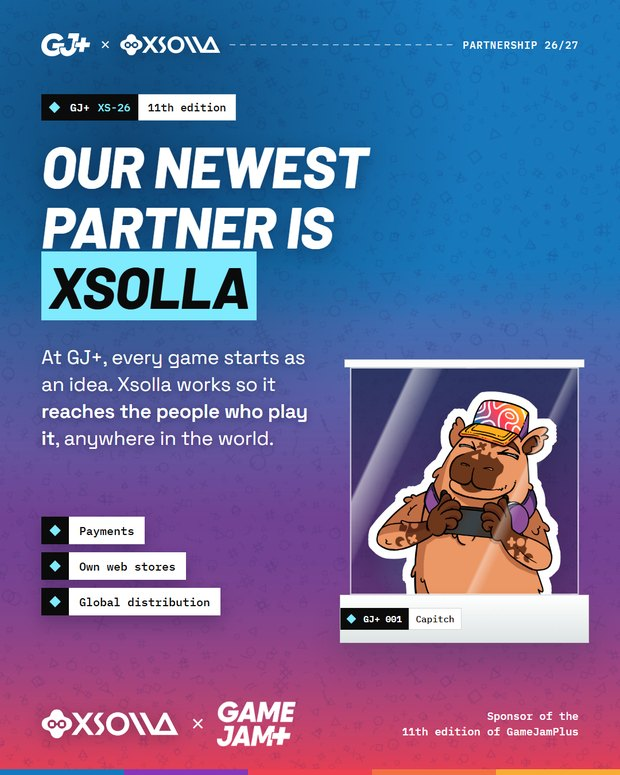
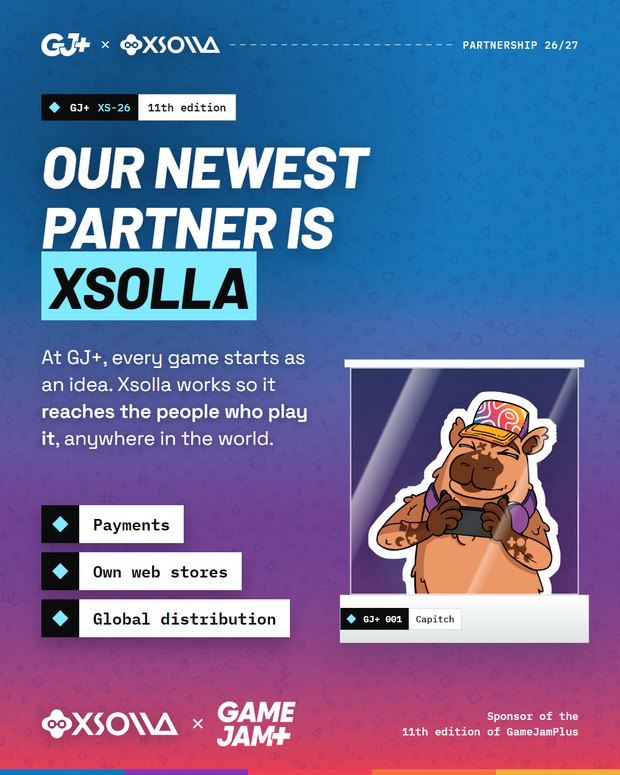
E34 e E35: legenda diz patrocinadora; E34 com etiquetas de servico maiores

Changed region(s): [[0.0613, 0.6503, 0.4903, 0.8361]]

diff --git a/legendas.js b/legendas.js
@@ -2059,7 +2059,7 @@ window.LEGENDAS = {
 "gj-e34-pt": {
   "titulo": "E34 · Nossa nova parceira, a Xsolla",
   "p": [
-    "A Xsolla é parceira da 11ª edição da GameJamPlus. A empresa trabalha há mais de 20 anos só com a indústria de games e cuida do caminho entre o jogo e quem joga, com pagamentos, lojas próprias e distribuição em mais de 200 países e regiões.",
+    "A Xsolla é patrocinadora da 11ª edição da GameJamPlus. A empresa trabalha há mais de 20 anos só com a indústria de games e cuida do caminho entre o jogo e quem joga, com pagamentos, lojas próprias e distribuição em mais de 200 países e regiões.",
     "Na prática, é a estrutura que permite a um estúdio vender direto ao jogador, receber no método de pagamento de cada país, em mais de 130 moedas, e chegar a criadores de conteúdo que divulgam o jogo. Muito projeto que nasce numa sede da GJ+ segue até a Aceleração, a etapa em que o jogo vira negócio, e é nesse momento que esse tipo de conhecimento passa a fazer diferença.",
     "Conta nos comentários em qual país você gostaria de ver o seu jogo sendo jogado."
   ],
@@ -2069,7 +2069,7 @@ window.LEGENDAS = {
 "gj-e34": {
   "titulo": "E34 · Our newest partner, Xsolla",
   "p": [
-    "Xsolla is a partner of the 11th edition of GameJamPlus. For more than 20 years the company has worked only with the games industry, handling the path between a game and the people who play it, with payments, web stores and distribution in more than 200 countries and regions.",
+    "Xsolla is a sponsor of the 11th edition of GameJamPlus. For more than 20 years the company has worked only with the games industry, handling the path between a game and the people who play it, with payments, web stores and distribution in more than 200 countries and regions.",
     "In practice, it is the structure that lets a studio sell straight to players, get paid through each country's payment methods, in more than 130 currencies, and reach content creators who spread the game. Many projects born at a GJ+ venue go on to Acceleration, the stage where the game becomes a business, and that is when this kind of knowledge starts to make a difference.",
     "Tell us in the comments which country you would love to see your game played in."
   ],
@@ -2079,7 +2079,7 @@ window.LEGENDAS = {
 "gj-e34-es": {
   "titulo": "E34 · Nuestra nueva aliada, Xsolla",
   "p": [
-    "Xsolla es aliada de la 11ª edición de GameJamPlus. La empresa trabaja hace más de 20 años solo con la industria de los videojuegos y se encarga del camino entre el juego y quien lo juega, con pagos, tiendas propias y distribución en más de 200 países y regiones.",
+    "Xsolla es patrocinadora de la 11ª edición de GameJamPlus. La empresa trabaja hace más de 20 años solo con la industria de los videojuegos y se encarga del camino entre el juego y quien lo juega, con pagos, tiendas propias y distribución en más de 200 países y regiones.",
     "En la práctica, es la estructura que permite a un estudio vender directo al jugador, cobrar con los métodos de pago de cada país, en más de 130 monedas, y llegar a creadores de contenido que difunden el juego. Muchos proyectos que nacen en una sede de GJ+ siguen hasta la Aceleración, la etapa en la que el juego se vuelve negocio, y es en ese momento que este tipo de conocimiento empieza a marcar la diferencia.",
     "Cuéntanos en los comentarios en qué país te gustaría ver tu juego."
   ],
@@ -2089,7 +2089,7 @@ window.LEGENDAS = {
 "gj-e35-pt": {
   "titulo": "E35 · Nogap Experts, nova parceira da GJ+",
   "p": [
-    "A Nogap Experts é parceira da 11ª edição da GameJamPlus. É um escritório de contabilidade especializado no mercado de games, com sede em São Paulo e filiais em Santos e Orlando, que atende estúdios, publishers e profissionais criativos.",
+    "A Nogap Experts é patrocinadora da 11ª edição da GameJamPlus. É um escritório de contabilidade especializado no mercado de games, com sede em São Paulo e filiais em Santos e Orlando, que atende estúdios, publishers e profissionais criativos.",
     "O trabalho dela é cuidar da parte que nenhuma jam treina, como a tributação de royalties, DLCs e microtransações, a conciliação das vendas na Steam, na Epic e na PS Store, a estrutura da empresa e a prestação de contas de editais e leis de incentivo. É o tipo de assunto que aparece quando o projeto começa a virar estúdio, e que pouca gente aprende antes de precisar.",
     "Comenta qual dessas partes mais trava o seu time hoje."
   ],
@@ -2099,7 +2099,7 @@ window.LEGENDAS = {
 "gj-e35": {
   "titulo": "E35 · Nogap Experts, new GJ+ partner",
   "p": [
-    "Nogap Experts is a partner of the 11th edition of GameJamPlus. It is an accounting firm specialized in the games market, based in São Paulo with offices in Santos and Orlando, serving studios, publishers and creative professionals.",
+    "Nogap Experts is a sponsor of the 11th edition of GameJamPlus. It is an accounting firm specialized in the games market, based in São Paulo with offices in Santos and Orlando, serving studios, publishers and creative professionals.",
     "Its work covers the part no jam trains you for, like taxes on royalties, DLCs and microtransactions, reconciling sales on Steam, Epic and PS Store, company structure and reporting for grants and incentive laws. It is the kind of subject that shows up when a project starts turning into a studio, and that few people learn before they need it.",
     "Tell us in the comments which of these parts slows your team down the most today."
   ],
@@ -2109,7 +2109,7 @@ window.LEGENDAS = {
 "gj-e35-es": {
   "titulo": "E35 · Nogap Experts, nueva aliada de GJ+",
   "p": [
-    "Nogap Experts es aliada de la 11ª edición de GameJamPlus. Es un estudio contable especializado en el mercado de los videojuegos, con sede en São Paulo y oficinas en Santos y Orlando, que atiende a estudios, publishers y profesionales creativos.",
+    "Nogap Experts es patrocinadora de la 11ª edición de GameJamPlus. Es un estudio contable especializado en el mercado de los videojuegos, con sede en São Paulo y oficinas en Santos y Orlando, que atiende a estudios, publishers y profesionales creativos.",
     "Su trabajo cubre la parte que ninguna jam entrena, como los impuestos sobre royalties, DLCs y microtransacciones, la conciliación de ventas en Steam, Epic y PS Store, la estructura de la empresa y la rendición de cuentas de fondos públicos y leyes de incentivo. Es el tipo de tema que aparece cuando el proyecto empieza a convertirse en estudio, y que poca gente aprende antes de necesitarlo.",
     "Cuéntanos en los comentarios cuál de estas partes frena más a tu equipo hoy."
   ],

diff --git a/p/e34-es/index.html b/p/e34-es/index.html
@@ -4,13 +4,13 @@
 <meta charset="utf-8">
 <meta name="viewport" content="width=device-width,initial-scale=1">
 <title>E34 - Nuestra nueva aliada, Xsolla · GameJamPlus</title>
-<meta name="description" content="Xsolla es aliada de la 11ª edición de GameJamPlus. La empresa trabaja hace más de 20 años solo con la industria de los videojuegos y se encarga del cami...">
+<meta name="description" content="Xsolla es patrocinadora de la 11ª edición de GameJamPlus. La empresa trabaja hace más de 20 años solo con la industria de los videojuegos y se encarga d...">
 <meta name="robots" content="noindex">
 <meta property="og:type" content="article">
 <meta property="og:site_name" content="GameJamPlus · carrosséis">
 <meta property="og:title" content="E34 - Nuestra nueva aliada, Xsolla">
-<meta property="og:description" content="Xsolla es aliada de la 11ª edición de GameJamPlus. La empresa trabaja hace más de 20 años solo con la industria de los videojuegos y se encarga del cami...">
-<meta property="og:image" content="https://gamejamplus-carrosseis.vercel.app/img/01-conteudos-gj-es-e34-nuestra-nueva-aliada-xsolla/slide_01.jpg?v=1">
+<meta property="og:description" content="Xsolla es patrocinadora de la 11ª edición de GameJamPlus. La empresa trabaja hace más de 20 años solo con la industria de los videojuegos y se encarga d...">
+<meta property="og:image" content="https://gamejamplus-carrosseis.vercel.app/img/01-conteudos-gj-es-e34-nuestra-nueva-aliada-xsolla/slide_01.jpg?v=2">
 <meta property="og:url" content="https://gamejamplus-carrosseis.vercel.app/p/e34-es/">
 <meta name="twitter:card" content="summary_large_image">
 <link rel="preconnect" href="https://fonts.googleapis.com">
@@ -68,7 +68,7 @@ h1{font-size:23px;font-weight:800;letter-spacing:-.5px;margin:8px 0 4px;line-hei
   <p class="sub">1 slides</p>
 
   <div class="palco">
-    <img id="sl" src="../../img/01-conteudos-gj-es-e34-nuestra-nueva-aliada-xsolla/slide_01.jpg?v=1" alt="E34 - Nuestra nueva aliada, Xsolla 1">
+    <img id="sl" src="../../img/01-conteudos-gj-es-e34-nuestra-nueva-aliada-xsolla/slide_01.jpg?v=2" alt="E34 - Nuestra nueva aliada, Xsolla 1">
     
   </div>
   
@@ -77,7 +77,7 @@ h1{font-size:23px;font-weight:800;letter-spacing:-.5px;margin:8px 0 4px;line-hei
 
   <section class="leg">
     <h2>Legenda do Instagram · ES</h2>
-    <p>Xsolla es aliada de la 11ª edición de GameJamPlus. La empresa trabaja hace más de 20 años solo con la industria de los videojuegos y se encarga del camino entre el juego y quien lo juega, con pagos, tiendas propias y distribución en más de 200 países y regiones.</p>
+    <p>Xsolla es patrocinadora de la 11ª edición de GameJamPlus. La empresa trabaja hace más de 20 años solo con la industria de los videojuegos y se encarga del camino entre el juego y quien lo juega, con pagos, tiendas propias y distribución en más de 200 países y regiones.</p>
     <p>En la práctica, es la estructura que permite a un estudio vender directo al jugador, cobrar con los métodos de pago de cada país, en más de 130 monedas, y llegar a creadores de contenido que difunden el juego. Muchos proyectos que nacen en una sede de GJ+ siguen hasta la Aceleración, la etapa en la que el juego se vuelve negocio, y es en ese momento que este tipo de conocimiento empieza a marcar la diferencia.</p>
     <p>Cuéntanos en los comentarios en qué país te gustaría ver tu juego.</p>
     <div class="tags">#GameJamPlus #Xsolla #BeOurPlusOne #GameDev #IndieDev #IndieGames</div>
@@ -86,8 +86,8 @@ h1{font-size:23px;font-weight:800;letter-spacing:-.5px;margin:8px 0 4px;line-hei
   <p class="rod">Uso interno, para revisão.</p>
 </div>
 <script>
-const S=["../../img/01-conteudos-gj-es-e34-nuestra-nueva-aliada-xsolla/slide_01.jpg?v=1"];
-const LEGTXT="Xsolla es aliada de la 11ª edición de GameJamPlus. La empresa trabaja hace más de 20 años solo con la industria de los videojuegos y se encarga del camino entre el juego y quien lo juega, con pagos, tiendas propias y distribución en más de 200 países y regiones.\n\nEn la práctica, es la estructura que permite a un estudio vender directo al jugador, cobrar con los métodos de pago de cada país, en más de 130 monedas, y llegar a creadores de contenido que difunden el juego. Muchos proyectos que nacen en una sede de GJ+ siguen hasta la Aceleración, la etapa en la que el juego se vuelve negocio, y es en ese momento que este tipo de conocimiento empieza a marcar la diferencia.\n\nCuéntanos en los comentarios en qué país te gustaría ver tu juego.\n\n#GameJamPlus #Xsolla #BeOurPlusOne #GameDev #IndieDev #IndieGames";
+const S=["../../img/01-conteudos-gj-es-e34-nuestra-nueva-aliada-xsolla/slide_01.jpg?v=2"];
+const LEGTXT="Xsolla es patrocinadora de la 11ª edición de GameJamPlus. La empresa trabaja hace más de 20 años solo con la industria de los videojuegos y se encarga del camino entre el juego y quien lo juega, con pagos, tiendas propias y distribución en más de 200 países y regiones.\n\nEn la práctica, es la estructura que permite a un estudio vender directo al jugador, cobrar con los métodos de pago de cada país, en más de 130 monedas, y llegar a creadores de contenido que difunden el juego. Muchos proyectos que nacen en una sede de GJ+ siguen hasta la Aceleración, la etapa en la que el juego se vuelve negocio, y es en ese momento que este tipo de conocimiento empieza a marcar la diferencia.\n\nCuéntanos en los comentarios en qué país te gustaría ver tu juego.\n\n#GameJamPlus #Xsolla #BeOurPlusOne #GameDev #IndieDev #IndieGames";
 let i=0;
 const img=document.getElementById('sl'),nn=document.getElementById('n'),dots=document.getElementById('dots');
 if(dots){S.forEach((_,k)=>{const d=document.createElement('i');d.onclick=()=>ir(k);dots.append(d)});}

diff --git a/p/e34-pt/index.html b/p/e34-pt/index.html
@@ -4,13 +4,13 @@
 <meta charset="utf-8">
 <meta name="viewport" content="width=device-width,initial-scale=1">
 <title>E34 - Nossa nova parceira, a Xsolla · GameJamPlus</title>
-<meta name="description" content="A Xsolla é parceira da 11ª edição da GameJamPlus. A empresa trabalha há mais de 20 anos só com a indústria de games e cuida do caminho entre o jogo e qu...">
+<meta name="description" content="A Xsolla é patrocinadora da 11ª edição da GameJamPlus. A empresa trabalha há mais de 20 anos só com a indústria de games e cuida do caminho entre o jogo...">
 <meta name="robots" content="noindex">
 <meta property="og:type" content="article">
 <meta property="og:site_name" content="GameJamPlus · carrosséis">
 <meta property="og:title" content="E34 - Nossa nova parceira, a Xsolla">
-<meta property="og:description" content="A Xsolla é parceira da 11ª edição da GameJamPlus. A empresa trabalha há mais de 20 anos só com a indústria de games e cuida do caminho entre o jogo e qu...">
-<meta property="og:image" content="https://gamejamplus-carrosseis.vercel.app/img/01-conteudos-gj-pt-e34-nossa-nova-parceira-a-xsolla/slide_01.jpg?v=1">
+<meta property="og:description" content="A Xsolla é patrocinadora da 11ª edição da GameJamPlus. A empresa trabalha há mais de 20 anos só com a indústria de games e cuida do caminho entre o jogo...">
+<meta property="og:image" content="https://gamejamplus-carrosseis.vercel.app/img/01-conteudos-gj-pt-e34-nossa-nova-parceira-a-xsolla/slide_01.jpg?v=2">
 <meta property="og:url" content="https://gamejamplus-carrosseis.vercel.app/p/e34-pt/">
 <meta name="twitter:card" content="summary_large_image">
 <link rel="preconnect" href="https://fonts.googleapis.com">
@@ -68,7 +68,7 @@ h1{font-size:23px;font-weight:800;letter-spacing:-.5px;margin:8px 0 4px;line-hei
   <p class="sub">1 slides</p>
 
   <div class="palco">
-    <img id="sl" src="../../img/01-conteudos-gj-pt-e34-nossa-nova-parceira-a-xsolla/slide_01.jpg?v=1" alt="E34 - Nossa nova parceira, a Xsolla 1">
+    <img id="sl" src="../../img/01-conteudos-gj-pt-e34-nossa-nova-parceira-a-xsolla/slide_01.jpg?v=2" alt="E34 - Nossa nova parceira, a Xsolla 1">
     
   </div>
   
@@ -77,7 +77,7 @@ h1{font-size:23px;font-weight:800;letter-spacing:-.5px;margin:8px 0 4px;line-hei
 
   <section class="leg">
     <h2>Legenda do Instagram · PT</h2>
-    <p>A Xsolla é parceira da 11ª edição da GameJamPlus. A empresa trabalha há mais de 20 anos só com a indústria de games e cuida do caminho entre o jogo e quem joga, com pagamentos, lojas próprias e distribuição em mais de 200 países e regiões.</p>
+    <p>A Xsolla é patrocinadora da 11ª edição da GameJamPlus. A empresa trabalha há mais de 20 anos só com a indústria de games e cuida do caminho entre o jogo e quem joga, com pagamentos, lojas próprias e distribuição em mais de 200 países e regiões.</p>
     <p>Na prática, é a estrutura que permite a um estúdio vender direto ao jogador, receber no método de pagamento de cada país, em mais de 130 moedas, e chegar a criadores de conteúdo que divulgam o jogo. Muito projeto que nasce numa sede da GJ+ segue até a Aceleração, a etapa em que o jogo vira negócio, e é nesse momento que esse tipo de conhecimento passa a fazer diferença.</p>
     <p>Conta nos comentários em qual país você gostaria de ver o seu jogo sendo jogado.</p>
     <div class="tags">#GameJamPlus #Xsolla #BeOurPlusOne #GameDev #IndieDev #IndieGames</div>
@@ -86,8 +86,8 @@ h1{font-size:23px;font-weight:800;letter-spacing:-.5px;margin:8px 0 4px;line-hei
   <p class="rod">Uso interno, para revisão.</p>
 </div>
 <script>
-const S=["../../img/01-conteudos-gj-pt-e34-nossa-nova-parceira-a-xsolla/slide_01.jpg?v=1"];
-const LEGTXT="A Xsolla é parceira da 11ª edição da GameJamPlus. A empresa trabalha há mais de 20 anos só com a indústria de games e cuida do caminho entre o jogo e quem joga, com pagamentos, lojas próprias e distribuição em mais de 200 países e regiões.\n\nNa prática, é a estrutura que permite a um estúdio vender direto ao jogador, receber no método de pagamento de cada país, em mais de 130 moedas, e chegar a criadores de conteúdo que divulgam o jogo. Muito projeto que nasce numa sede da GJ+ segue até a Aceleração, a etapa em que o jogo vira negócio, e é nesse momento que esse tipo de conhecimento passa a fazer diferença.\n\nConta nos comentários em qual país você gostaria de ver o seu jogo sendo jogado.\n\n#GameJamPlus #Xsolla #BeOurPlusOne #GameDev #IndieDev #IndieGames";
+const S=["../../img/01-conteudos-gj-pt-e34-nossa-nova-parceira-a-xsolla/slide_01.jpg?v=2"];
+const LEGTXT="A Xsolla é patrocinadora da 11ª edição da GameJamPlus. A empresa trabalha há mais de 20 anos só com a indústria de games e cuida do caminho entre o jogo e quem joga, com pagamentos, lojas próprias e distribuição em mais de 200 países e regiões.\n\nNa prática, é a estrutura que permite a um estúdio vender direto ao jogador, receber no método de pagamento de cada país, em mais de 130 moedas, e chegar a criadores de conteúdo que divulgam o jogo. Muito projeto que nasce numa sede da GJ+ segue até a Aceleração, a etapa em que o jogo vira negócio, e é nesse momento que esse tipo de conhecimento passa a fazer diferença.\n\nConta nos comentários em qual país você gostaria de ver o seu jogo sendo jogado.\n\n#GameJamPlus #Xsolla #BeOurPlusOne #GameDev #IndieDev #IndieGames";
 let i=0;
 const img=document.getElementById('sl'),nn=document.getElementById('n'),dots=document.getElementById('dots');
 if(dots){S.forEach((_,k)=>{const d=document.createElement('i');d.onclick=()=>ir(k);dots.append(d)});}

diff --git a/p/e34-en/index.html b/p/e34-en/index.html
@@ -4,13 +4,13 @@
 <meta charset="utf-8">
 <meta name="viewport" content="width=device-width,initial-scale=1">
 <title>E34 - Our newest partner, Xsolla · GameJamPlus</title>
-<meta name="description" content="Xsolla is a partner of the 11th edition of GameJamPlus. For more than 20 years the company has worked only with the games industry, handling the path be...">
+<meta name="description" content="Xsolla is a sponsor of the 11th edition of GameJamPlus. For more than 20 years the company has worked only with the games industry, handling the path be...">
 <meta name="robots" content="noindex">
 <meta property="og:type" content="article">
 <meta property="og:site_name" content="GameJamPlus · carrosséis">
 <meta property="og:title" content="E34 - Our newest partner, Xsolla">
-<meta property="og:description" content="Xsolla is a partner of the 11th edition of GameJamPlus. For more than 20 years the company has worked only with the games industry, handling the path be...">
-<meta property="og:image" content="https://gamejamplus-carrosseis.vercel.app/img/01-conteudos-gj-en-e34-our-newest-partner-xsolla/slide_01.jpg?v=1">
+<meta property="og:description" content="Xsolla is a sponsor of the 11th edition of GameJamPlus. For more than 20 years the company has worked only with the games industry, handling the path be...">
+<meta property="og:image" content="https://gamejamplus-carrosseis.vercel.app/img/01-conteudos-gj-en-e34-our-newest-partner-xsolla/slide_01.jpg?v=2">
 <meta property="og:url" content="https://gamejamplus-carrosseis.vercel.app/p/e34-en/">
 <meta name="twitter:card" content="summary_large_image">
 <link rel="preconnect" href="https://fonts.googleapis.com">
@@ -68,7 +68,7 @@ h1{font-size:23px;font-weight:800;letter-spacing:-.5px;margin:8px 0 4px;line-hei
   <p class="sub">1 slides</p>
 
   <div class="palco">
-    <img id="sl" src="../../img/01-conteudos-gj-en-e34-our-newest-partner-xsolla/slide_01.jpg?v=1" alt="E34 - Our newest partner, Xsolla 1">
+    <img id="sl" src="../../img/01-conteudos-gj-en-e34-our-newest-partner-xsolla/slide_01.jpg?v=2" alt="E34 - Our newest partner, Xsolla 1">
     
   </div>
   
@@ -77,7 +77,7 @@ h1{font-size:23px;font-weight:800;letter-spacing:-.5px;margin:8px 0 4px;line-hei
 
   <section class="leg">
     <h2>Legenda do Instagram · EN</h2>
-    <p>Xsolla is a partner of the 11th edition of GameJamPlus. For more than 20 years the company has worked only with the games industry, handling the path between a game and the people who play it, with payments, web stores and distribution in more than 200 countries and regions.</p>
+    <p>Xsolla is a sponsor of the 11th edition of GameJamPlus. For more than 20 years the company has worked only with the games industry, handling the path between a game and the people who play it, with payments, web stores and distribution in more than 200 countries and regions.</p>
     <p>In practice, it is the structure that lets a studio sell straight to players, get paid through each country's payment methods, in more than 130 currencies, and reach content creators who spread the game. Many projects born at a GJ+ venue go on to Acceleration, the stage where the game becomes a business, and that is when this kind of knowledge starts to make a difference.</p>
     <p>Tell us in the comments which country you would love to see your game played in.</p>
     <div class="tags">#GameJamPlus #Xsolla #BeOurPlusOne #GameDev #IndieDev #IndieGames</div>
@@ -86,8 +86,8 @@ h1{font-size:23px;font-weight:800;letter-spacing:-.5px;margin:8px 0 4px;line-hei
   <p class="rod">Uso interno, para revisão.</p>
 </div>
 <script>
-const S=["../../img/01-conteudos-gj-en-e34-our-newest-partner-xsolla/slide_01.jpg?v=1"];
-const LEGTXT="Xsolla is a partner of the 11th edition of GameJamPlus. For more than 20 years the company has worked only with the games industry, handling the path between a game and the people who play it, with payments, web stores and distribution in more than 200 countries and regions.\n\nIn practice, it is the structure that lets a studio sell straight to players, get paid through each country's payment methods, in more than 130 currencies, and reach content creators who spread the game. Many projects born at a GJ+ venue go on to Acceleration, the stage where the game becomes a business, and that is when this kind of knowledge starts to make a difference.\n\nTell us in the comments which country you would love to see your game played in.\n\n#GameJamPlus #Xsolla #BeOurPlusOne #GameDev #IndieDev #IndieGames";
+const S=["../../img/01-conteudos-gj-en-e34-our-newest-partner-xsolla/slide_01.jpg?v=2"];
+const LEGTXT="Xsolla is a sponsor of the 11th edition of GameJamPlus. For more than 20 years the company has worked only with the games industry, handling the path between a game and the people who play it, with payments, web stores and distribution in more than 200 countries and regions.\n\nIn practice, it is the structure that lets a studio sell straight to players, get paid through each country's payment methods, in more than 130 currencies, and reach content creators who spread the game. Many projects born at a GJ+ venue go on to Acceleration, the stage where the game becomes a business, and that is when this kind of knowledge starts to make a difference.\n\nTell us in the comments which country you would love to see your game played in.\n\n#GameJamPlus #Xsolla #BeOurPlusOne #GameDev #IndieDev #IndieGames";
 let i=0;
 const img=document.getElementById('sl'),nn=document.getElementById('n'),dots=document.getElementById('dots');
 if(dots){S.forEach((_,k)=>{const d=document.createElement('i');d.onclick=()=>ir(k);dots.append(d)});}

diff --git a/p/e35-es/index.html b/p/e35-es/index.html
@@ -4,12 +4,12 @@
 <meta charset="utf-8">
 <meta name="viewport" content="width=device-width,initial-scale=1">
 <title>E35 - Nogap Experts, nueva aliada de GJ+ · GameJamPlus</title>
-<meta name="description" content="Nogap Experts es aliada de la 11ª edición de GameJamPlus. Es un estudio contable especializado en el mercado de los videojuegos, con sede en São Paulo y...">
+<meta name="description" content="Nogap Experts es patrocinadora de la 11ª edición de GameJamPlus. Es un estudio contable especializado en el mercado de los videojuegos, con sede en São...">
 <meta name="robots" content="noindex">
 <meta property="og:type" content="article">
 <meta property="og:site_name" content="GameJamPlus · carrosséis">
 <meta property="og:title" content="E35 - Nogap Experts, nueva aliada de GJ+">
-<meta property="og:description" content="Nogap Experts es aliada de la 11ª edición de GameJamPlus. Es un estudio contable especializado en el mercado de los videojuegos, con sede en São Paulo y...">
+<meta property="og:description" content="Nogap Experts es patrocinadora de la 11ª edición de GameJamPlus. Es un estudio contable especializado en el mercado de los videojuegos, con sede en São...">
 <meta property="og:image" content="https://gamejamplus-carrosseis.vercel.app/img/01-conteudos-gj-es-e35-nogap-experts-nueva-aliada-de-gj/slide_01.jpg?v=1">
 <meta property="og:url" content="https://gamejamplus-carrosseis.vercel.app/p/e35-es/">
 <meta name="twitter:card" content="summary_large_image">
@@ -77,7 +77,7 @@ h1{font-size:23px;font-weight:800;letter-spacing:-.5px;margin:8px 0 4px;line-hei
 
   <section class="leg">
     <h2>Legenda do Instagram · ES</h2>
-    <p>Nogap Experts es aliada de la 11ª edición de GameJamPlus. Es un estudio contable especializado en el mercado de los videojuegos, con sede en São Paulo y oficinas en Santos y Orlando, que atiende a estudios, publishers y profesionales creativos.</p>
+    <p>Nogap Experts es patrocinadora de la 11ª edición de GameJamPlus. Es un estudio contable especializado en el mercado de los videojuegos, con sede en São Paulo y oficinas en Santos y Orlando, que atiende a estudios, publishers y profesionales creativos.</p>
     <p>Su trabajo cubre la parte que ninguna jam entrena, como los impuestos sobre royalties, DLCs y microtransacciones, la conciliación de ventas en Steam, Epic y PS Store, la estructura de la empresa y la rendición de cuentas de fondos públicos y leyes de incentivo. Es el tipo de tema que aparece cuando el proyecto empieza a convertirse en estudio, y que poca gente aprende antes de necesitarlo.</p>
     <p>Cuéntanos en los comentarios cuál de estas partes frena más a tu equipo hoy.</p>
     <div class="tags">#GameJamPlus #NogapExperts #BeOurPlusOne #GameDev #IndieDev #IndieGames</div>
@@ -87,7 +87,7 @@ h1{font-size:23px;font-weight:800;letter-spacing:-.5px;margin:8px 0 4px;line-hei
 </div>
 <script>
 const S=["../../img/01-conteudos-gj-es-e35-nogap-experts-nueva-aliada-de-gj/slide_01.jpg?v=1"];
-const LEGTXT="Nogap Experts es aliada de la 11ª edición de GameJamPlus. Es un estudio contable especializado en el mercado de los videojuegos, con sede en São Paulo y oficinas en Santos y Orlando, que atiende a estudios, publishers y profesionales creativos.\n\nSu trabajo cubre la parte que ninguna jam entrena, como los impuestos sobre royalties, DLCs y microtransacciones, la conciliación de ventas en Steam, Epic y PS Store, la estructura de la empresa y la rendición de cuentas de fondos públicos y leyes de incentivo. Es el tipo de tema que aparece cuando el proyecto empieza a convertirse en estudio, y que poca gente aprende antes de necesitarlo.\n\nCuéntanos en los comentarios cuál de estas partes frena más a tu equipo hoy.\n\n#GameJamPlus #NogapExperts #BeOurPlusOne #GameDev #IndieDev #IndieGames";
+const LEGTXT="Nogap Experts es patrocinadora de la 11ª edición de GameJamPlus. Es un estudio contable especializado en el mercado de los videojuegos, con sede en São Paulo y oficinas en Santos y Orlando, que atiende a estudios, publishers y profesionales creativos.\n\nSu trabajo cubre la parte que ninguna jam entrena, como los impuestos sobre royalties, DLCs y microtransacciones, la conciliación de ventas en Steam, Epic y PS Store, la estructura de la empresa y la rendición de cuentas de fondos públicos y leyes de incentivo. Es el tipo de tema que aparece cuando el proyecto empieza a convertirse en estudio, y que poca gente aprende antes de necesitarlo.\n\nCuéntanos en los comentarios cuál de estas partes frena más a tu equipo hoy.\n\n#GameJamPlus #NogapExperts #BeOurPlusOne #GameDev #IndieDev #IndieGames";
 let i=0;
 const img=document.getElementById('sl'),nn=document.getElementById('n'),dots=document.getElementById('dots');
 if(dots){S.forEach((_,k)=>{const d=document.createElement('i');d.onclick=()=>ir(k);dots.append(d)});}

diff --git a/p/e35-pt/index.html b/p/e35-pt/index.html
@@ -4,12 +4,12 @@
 <meta charset="utf-8">
 <meta name="viewport" content="width=device-width,initial-scale=1">
 <title>E35 - Nogap Experts, nova parceira da GJ+ · GameJamPlus</title>
-<meta name="description" content="A Nogap Experts é parceira da 11ª edição da GameJamPlus. É um escritório de contabilidade especializado no mercado de games, com sede em São Paulo e fil...">
+<meta name="description" content="A Nogap Experts é patrocinadora da 11ª edição da GameJamPlus. É um escritório de contabilidade especializado no mercado de games, com sede em São Paulo...">
 <meta name="robots" content="noindex">
 <meta property="og:type" content="article">
 <meta property="og:site_name" content="GameJamPlus · carrosséis">
 <meta property="og:title" content="E35 - Nogap Experts, nova parceira da GJ+">
-<meta property="og:description" content="A Nogap Experts é parceira da 11ª edição da GameJamPlus. É um escritório de contabilidade especializado no mercado de games, com sede em São Paulo e fil...">
+<meta property="og:description" content="A Nogap Experts é patrocinadora da 11ª edição da GameJamPlus. É um escritório de contabilidade especializado no mercado de games, com sede em São Paulo...">
 <meta property="og:image" content="https://gamejamplus-carrosseis.vercel.app/img/01-conteudos-gj-pt-e35-nogap-experts-nova-parceira-da-gj/slide_01.jpg?v=1">
 <meta property="og:url" content="https://gamejamplus-carrosseis.vercel.app/p/e35-pt/">
 <meta name="twitter:card" content="summary_large_image">
@@ -77,7 +77,7 @@ h1{font-size:23px;font-weight:800;letter-spacing:-.5px;margin:8px 0 4px;line-hei
 
   <section class="leg">
     <h2>Legenda do Instagram · PT</h2>
-    <p>A Nogap Experts é parceira da 11ª edição da GameJamPlus. É um escritório de contabilidade especializado no mercado de games, com sede em São Paulo e filiais em Santos e Orlando, que atende estúdios, publishers e profissionais criativos.</p>
+    <p>A Nogap Experts é patrocinadora da 11ª edição da GameJamPlus. É um escritório de contabilidade especializado no mercado de games, com sede em São Paulo e filiais em Santos e Orlando, que atende estúdios, publishers e profissionais criativos.</p>
     <p>O trabalho dela é cuidar da parte que nenhuma jam treina, como a tributação de royalties, DLCs e microtransações, a conciliação das vendas na Steam, na Epic e na PS Store, a estrutura da empresa e a prestação de contas de editais e leis de incentivo. É o tipo de assunto que aparece quando o projeto começa a virar estúdio, e que pouca gente aprende antes de precisar.</p>
     <p>Comenta qual dessas partes mais trava o seu time hoje.</p>
     <div class="tags">#GameJamPlus #NogapExperts #BeOurPlusOne #GameDev #IndieDev #IndieGames</div>
@@ -87,7 +87,7 @@ h1{font-size:23px;font-weight:800;letter-spacing:-.5px;margin:8px 0 4px;line-hei
 </div>
 <script>
 const S=["../../img/01-conteudos-gj-pt-e35-nogap-experts-nova-parceira-da-gj/slide_01.jpg?v=1"];
-const LEGTXT="A Nogap Experts é parceira da 11ª edição da GameJamPlus. É um escritório de contabilidade especializado no mercado de games, com sede em São Paulo e filiais em Santos e Orlando, que atende estúdios, publishers e profissionais criativos.\n\nO trabalho dela é cuidar da parte que nenhuma jam treina, como a tributação de royalties, DLCs e microtransações, a conciliação das vendas na Steam, na Epic e na PS Store, a estrutura da empresa e a prestação de contas de editais e leis de incentivo. É o tipo de assunto que aparece quando o projeto começa a virar estúdio, e que pouca gente aprende antes de precisar.\n\nComenta qual dessas partes mais trava o seu time hoje.\n\n#GameJamPlus #NogapExperts #BeOurPlusOne #GameDev #IndieDev #IndieGames";
+const LEGTXT="A Nogap Experts é patrocinadora da 11ª edição da GameJamPlus. É um escritório de contabilidade especializado no mercado de games, com sede em São Paulo e filiais em Santos e Orlando, que atende estúdios, publishers e profissionais criativos.\n\nO trabalho dela é cuidar da parte que nenhuma jam treina, como a tributação de royalties, DLCs e microtransações, a conciliação das vendas na Steam, na Epic e na PS Store, a estrutura da empresa e a prestação de contas de editais e leis de incentivo. É o tipo de assunto que aparece quando o projeto começa a virar estúdio, e que pouca gente aprende antes de precisar.\n\nComenta qual dessas partes mais trava o seu time hoje.\n\n#GameJamPlus #NogapExperts #BeOurPlusOne #GameDev #IndieDev #IndieGames";
 let i=0;
 const img=document.getElementById('sl'),nn=document.getElementById('n'),dots=document.getElementById('dots');
 if(dots){S.forEach((_,k)=>{const d=document.createElement('i');d.onclick=()=>ir(k);dots.append(d)});}

diff --git a/p/e35-en/index.html b/p/e35-en/index.html
@@ -4,12 +4,12 @@
 <meta charset="utf-8">
 <meta name="viewport" content="width=device-width,initial-scale=1">
 <title>E35 - Nogap Experts, new GJ+ partner · GameJamPlus</title>
-<meta name="description" content="Nogap Experts is a partner of the 11th edition of GameJamPlus. It is an accounting firm specialized in the games market, based in São Paulo with offices...">
+<meta name="description" content="Nogap Experts is a sponsor of the 11th edition of GameJamPlus. It is an accounting firm specialized in the games market, based in São Paulo with offices...">
 <meta name="robots" content="noindex">
 <meta property="og:type" content="article">
 <meta property="og:site_name" content="GameJamPlus · carrosséis">
 <meta property="og:title" content="E35 - Nogap Experts, new GJ+ partner">
-<meta property="og:description" content="Nogap Experts is a partner of the 11th edition of GameJamPlus. It is an accounting firm specialized in the games market, based in São Paulo with offices...">
+<meta property="og:description" content="Nogap Experts is a sponsor of the 11th edition of GameJamPlus. It is an accounting firm specialized in the games market, based in São Paulo with offices...">
 <meta property="og:image" content="https://gamejamplus-carrosseis.vercel.app/img/01-conteudos-gj-en-e35-nogap-experts-new-gj-partner/slide_01.jpg?v=1">
 <meta property="og:url" content="https://gamejamplus-carrosseis.vercel.app/p/e35-en/">
 <meta name="twitter:card" content="summary_large_image">
@@ -77,7 +77,7 @@ h1{font-size:23px;font-weight:800;letter-spacing:-.5px;margin:8px 0 4px;line-hei
 
   <section class="leg">
     <h2>Legenda do Instagram · EN</h2>
-    <p>Nogap Experts is a partner of the 11th edition of GameJamPlus. It is an accounting firm specialized in the games market, based in São Paulo with offices in Santos and Orlando, serving studios, publishers and creative professionals.</p>
+    <p>Nogap Experts is a sponsor of the 11th edition of GameJamPlus. It is an accounting firm specialized in the games market, based in São Paulo with offices in Santos and Orlando, serving studios, publishers and creative professionals.</p>
     <p>Its work covers the part no jam trains you for, like taxes on royalties, DLCs and microtransactions, reconciling sales on Steam, Epic and PS Store, company structure and reporting for grants and incentive laws. It is the kind of subject that shows up when a project starts turning into a studio, and that few people learn before they need it.</p>
     <p>Tell us in the comments which of these parts slows your team down the most today.</p>
     <div class="tags">#GameJamPlus #NogapExperts #BeOurPlusOne #GameDev #IndieDev #IndieGames</div>
@@ -87,7 +87,7 @@ h1{font-size:23px;font-weight:800;letter-spacing:-.5px;margin:8px 0 4px;line-hei
 </div>
 <script>
 const S=["../../img/01-conteudos-gj-en-e35-nogap-experts-new-gj-partner/slide_01.jpg?v=1"];
-const LEGTXT="Nogap Experts is a partner of the 11th edition of GameJamPlus. It is an accounting firm specialized in the games market, based in São Paulo with offices in Santos and Orlando, serving studios, publishers and creative professionals.\n\nIts work covers the part no jam trains you for, like taxes on royalties, DLCs and microtransactions, reconciling sales on Steam, Epic and PS Store, company structure and reporting for grants and incentive laws. It is the kind of subject that shows up when a project starts turning into a studio, and that few people learn before they need it.\n\nTell us in the comments which of these parts slows your team down the most today.\n\n#GameJamPlus #NogapExperts #BeOurPlusOne #GameDev #IndieDev #IndieGames";
+const LEGTXT="Nogap Experts is a sponsor of the 11th edition of GameJamPlus. It is an accounting firm specialized in the games market, based in São Paulo with offices in Santos and Orlando, serving studios, publishers and creative professionals.\n\nIts work covers the part no jam trains you for, like taxes on royalties, DLCs and microtransactions, reconciling sales on Steam, Epic and PS Store, company structure and reporting for grants and incentive laws. It is the kind of subject that shows up when a project starts turning into a studio, and that few people learn before they need it.\n\nTell us in the comments which of these parts slows your team down the most today.\n\n#GameJamPlus #NogapExperts #BeOurPlusOne #GameDev #IndieDev #IndieGames";
 let i=0;
 const img=document.getElementById('sl'),nn=document.getElementById('n'),dots=document.getElementById('dots');
 if(dots){S.forEach((_,k)=>{const d=document.createElement('i');d.onclick=()=>ir(k);dots.append(d)});}

diff --git a/index.html b/index.html
@@ -1337,15 +1337,15 @@ dialog img{width:min(92vw,620px);max-height:92dvh;object-fit:contain;border-radi
 <article class="c" data-cat="01-conteudos-gj" data-lang="PT" data-busca="e34 - nossa nova parceira, a xsolla gj+" id="c314">
   <header><div><span class="tagcat">GJ+</span><span class="taglang PT">PT</span><h2>E34 - Nossa nova parceira, a Xsolla</h2></div>
   <div class="nav"><button aria-label="Anterior" data-d="-1">&#8592;</button><button aria-label="Pr&#243;ximo" data-d="1">&#8594;</button><span class="cont">1</span></div></header>
-  <div class="strip"><figure><img src="img/01-conteudos-gj-pt-e34-nossa-nova-parceira-a-xsolla/slide_01.jpg?v=1" alt="E34 - Nossa nova parceira, a Xsolla 1" width="620" height="775" loading="lazy" decoding="async"><figcaption>01</figcaption></figure></div></article>
+  <div class="strip"><figure><img src="img/01-conteudos-gj-pt-e34-nossa-nova-parceira-a-xsolla/slide_01.jpg?v=2" alt="E34 - Nossa nova parceira, a Xsolla 1" width="620" height="775" loading="lazy" decoding="async"><figcaption>01</figcaption></figure></div></article>
 <article class="c" data-cat="01-conteudos-gj" data-lang="EN" data-busca="e34 - our newest partner, xsolla gj+" id="c315">
   <header><div><span class="tagcat">GJ+</span><span class="taglang EN">EN</span><h2>E34 - Our newest partner, Xsolla</h2></div>
   <div class="nav"><button aria-label="Anterior" data-d="-1">&#8592;</button><button aria-label="Pr&#243;ximo" data-d="1">&#8594;</button><span class="cont">1</span></div></header>
-  <div class="strip"><figure><img src="img/01-conteudos-gj-en-e34-our-newest-partner-xsolla/slide_01.jpg?v=1" alt="E34 - Our newest partner, Xsolla 1" width="620" height="775" loading="lazy" decoding="async"><figcaption>01</figcaption></figure></div></article>
+  <div class="strip"><figure><img src="img/01-conteudos-gj-en-e34-our-newest-partner-xsolla/slide_01.jpg?v=2" alt="E34 - Our newest partner, Xsolla 1" width="620" height="775" loading="lazy" decoding="async"><figcaption>01</figcaption></figure></div></article>
 <article class="c" data-cat="01-conteudos-gj" data-lang="ES" data-busca="e34 - nuestra nueva aliada, xsolla gj+" id="c316">
   <header><div><span class="tagcat">GJ+</span><span class="taglang ES">ES</span><h2>E34 - Nuestra nueva aliada, Xsolla</h2></div>
   <div class="nav"><button aria-label="Anterior" data-d="-1">&#8592;</button><button aria-label="Pr&#243;ximo" data-d="1">&#8594;</button><span class="cont">1</span></div></header>
-  <div class="strip"><figure><img src="img/01-conteudos-gj-es-e34-nuestra-nueva-aliada-xsolla/slide_01.jpg?v=1" alt="E34 - Nuestra nueva aliada, Xsolla 1" width="620" height="775" loading="lazy" decoding="async"><figcaption>01</figcaption></figure></div></article>
+  <div class="strip"><figure><img src="img/01-conteudos-gj-es-e34-nuestra-nueva-aliada-xsolla/slide_01.jpg?v=2" alt="E34 - Nuestra nueva aliada, Xsolla 1" width="620" height="775" loading="lazy" decoding="async"><figcaption>01</figcaption></figure></div></article>
 <article class="c" data-cat="01-conteudos-gj" data-lang="PT" data-busca="e35 - nogap experts, nova parceira da gj+ gj+" id="c317">
   <header><div><span class="tagcat">GJ+</span><span class="taglang PT">PT</span><h2>E35 - Nogap Experts, nova parceira da GJ+</h2></div>
   <div class="nav"><button aria-label="Anterior" data-d="-1">&#8592;</button><button aria-label="Pr&#243;ximo" data-d="1">&#8594;</button><span class="cont">1</span></div></header>
@@ -1360,7 +1360,7 @@ dialog img{width:min(92vw,620px);max-height:92dvh;object-fit:contain;border-radi
   <div class="strip"><figure><img src="img/01-conteudos-gj-es-e35-nogap-experts-nueva-aliada-de-gj/slide_01.jpg?v=1" alt="E35 - Nogap Experts, nueva aliada de GJ+ 1" width="620" height="775" loading="lazy" decoding="async"><figcaption>01</figcaption></figure></div></article>
 <p class="vazio" id="vazio" hidden>Nenhum carrossel com esse filtro.</p></main>
 <dialog id="lb"><img id="lbimg" alt=""><div class="dnav"><button id="prev" aria-label="Anterior">←</button><button id="next" aria-label="Próximo">→</button></div><p class="dcap" id="lbcap"></p></dialog>
-<script src="legendas.js?v=12"></script>
+<script src="legendas.js?v=13"></script>
 <script src="links.js?v=1"></script>
 <script>
 const cs=[...document.querySelectorAll('.c')],vis=document.getElementById('vis'),vazio=document.getElementById('vazio');
